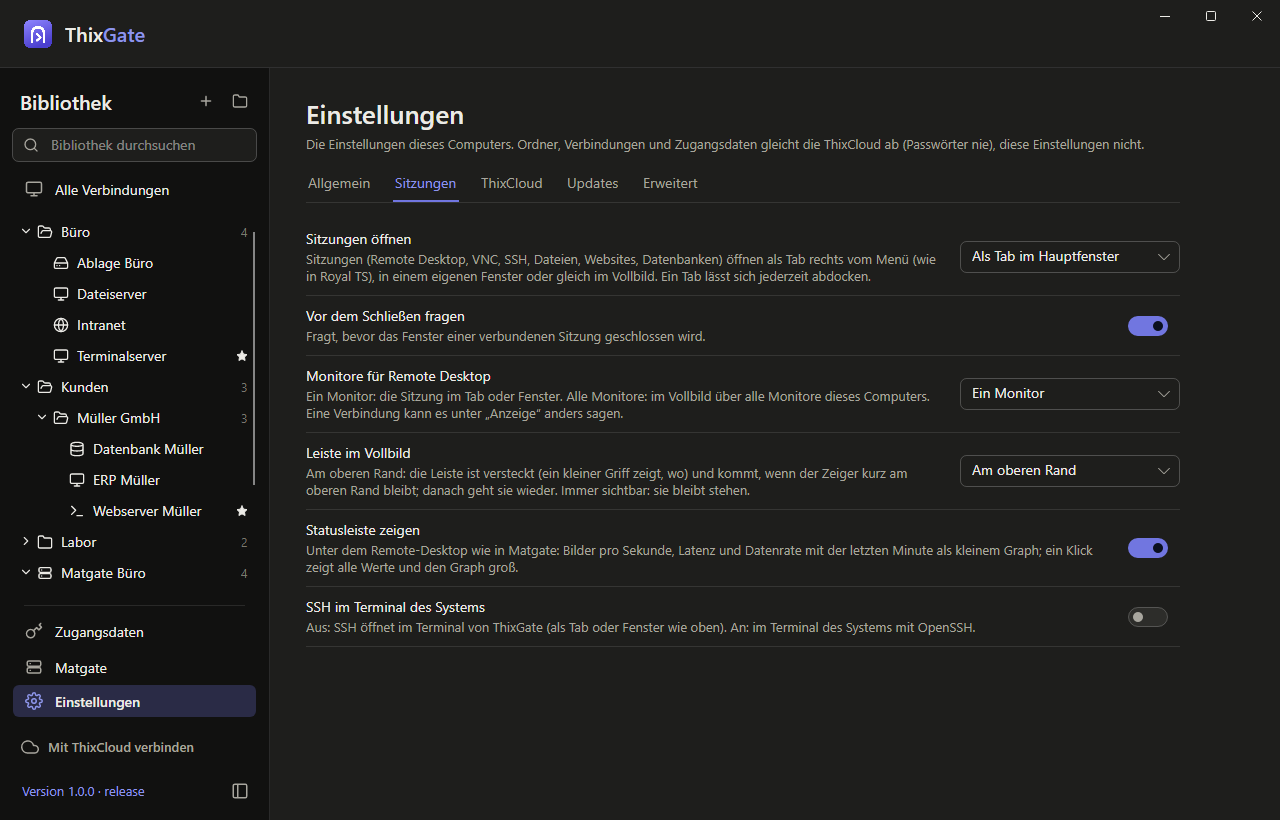
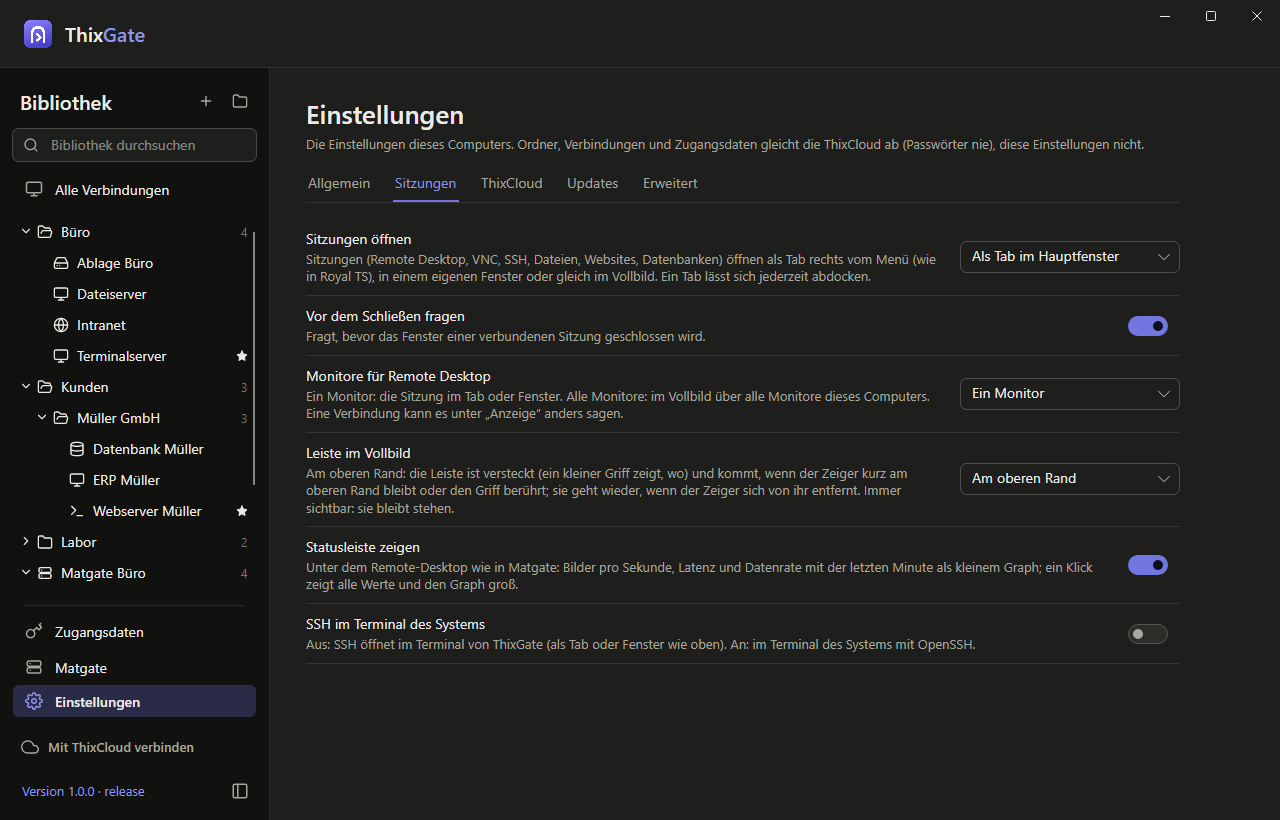
Vollbild: die Leiste kommt zuverlaessig - der Zeiger wird im ganzen Fenster verfolgt (auch ueber dem Bild und ueber Panels, die ihn selbst behandeln), der Bereich am oberen Rand ist groesser (6 statt 2 Pixel) und der Griff ein sichtbarer kleiner Reiter. Die Leiste bleibt, solange der Zeiger auf ihr 

Changed region(s): [[0.2188, 0.5793, 0.9375, 0.7927], [0.75, 0.5488, 0.8438, 0.6098], [0.875, 0.7317, 0.9062, 0.7927]]

diff --git a/src/ThixGate/Sessions/SessionView.FullScreen.cs b/src/ThixGate/Sessions/SessionView.FullScreen.cs
@@ -17,14 +17,25 @@ namespace ThixGate.Sessions;
 /// Full screen (and a desktop over several monitors): the bars above and below go, and a connection bar sits at the top edge instead -
 /// as in Microsoft's Windows App: flush with the edge and rounded below, a menu on the left (Verbindungsinformationen, Anzeige, Ton,
 /// Strg+Alt+Entf, Leiste immer zeigen), the state, name and way of the session, and on the right Minimieren, Vollbild beenden, Trennen.
-/// It stays hidden until the pointer rests at the top edge for a moment (or touches the small grip there) and goes again a moment after
-/// the pointer left it; entering full screen does not show it. As the settings say (<see cref="AppSettings.FullScreenBar"/>) it can
-/// instead always show ("Leiste immer zeigen" in its menu).
+/// It stays hidden until the pointer rests at the top edge for a moment (or touches the grip there) and goes again a moment after
+/// the pointer moved away from it; entering full screen does not show it. The pointer is followed in the whole window (also where the
+/// picture or a panel takes it), and where it was last counts: on macOS the system's menu bar comes down at the top edge and takes the
+/// pointer - the bar then waits below it instead of going. As the settings say (<see cref="AppSettings.FullScreenBar"/>) it can instead
+/// always show ("Leiste immer zeigen" in its menu).
 /// </summary>
 public sealed partial class SessionView
 {
     /// <summary>How long the pointer rests at the top edge before the bar comes (so a quick move to the top does not bring it).</summary>
-    private static readonly TimeSpan RevealDelay = TimeSpan.FromMilliseconds(350);
+    private static readonly TimeSpan RevealDelay = TimeSpan.FromMilliseconds(300);
+
+    /// <summary>How close to the top edge the pointer brings the bar.</summary>
+    private const double RevealZone = 6;
+
+    /// <summary>How far below the bar the pointer may go before it hides (room for the macOS menu bar over it).</summary>
+    private const double StayZone = 48;
+
+    /// <summary>Where the pointer was last seen in the window, from the top of the session (NaN: not yet).</summary>
+    private double _pointerTop = double.NaN;
 
     private readonly Border _fullBar = new();
     private readonly Border _handle = new();
@@ -72,6 +83,9 @@ public sealed partial class SessionView
 
     /// <summary>The pointer rests at the top edge (tests: as if it had rested long enough).</summary>
     internal void RevealBarNow() => ShowFullBar();
+
+    /// <summary>The pointer is at the top edge and the bar comes when it rests there a moment longer (tests).</summary>
+    internal bool IsRevealPending => _revealBar.IsEnabled;
 
     private static bool IsBarPinned => SettingsService.Get().FullScreenBar == "always";
 
@@ -121,21 +135,10 @@ public sealed partial class SessionView
         _fullBar.PointerPressed += (_, e) => e.Handled = true;
         _fullBar.PointerReleased += (_, e) => e.Handled = true;
         _fullBar.PointerMoved += (_, e) => e.Handled = true;
-        _fullBar.PointerEntered += (_, _) => _hideBar.Stop();
-        _fullBar.PointerExited += (_, _) => HideSoon();
         _hideBar.Tick += (_, _) =>
         {
             _hideBar.Stop();
-            if (!IsBarPinned && !_fullBar.IsPointerOver && !IsBarBusy)
-            {
-                _fullBar.IsVisible = false;
-                _handle.IsVisible = _isFullScreen;
-            }
-            else if (!IsBarPinned && !_fullBar.IsPointerOver)
-            {
-                // A menu or panel of the bar is open: look again once it may be closed.
-                _hideBar.Start();
-            }
+            HideBarIfAway();
         };
         _revealBar.Tick += (_, _) =>
         {
@@ -143,14 +146,25 @@ public sealed partial class SessionView
             ShowFullBar();
         };
 
-        // The grip: a small hint at the top edge where the bar waits; touching it brings the bar at once.
-        var grip = new Border { Width = 46, Height = 4, CornerRadius = new CornerRadius(2), VerticalAlignment = VerticalAlignment.Top, Margin = new Thickness(0, 3, 0, 0), Opacity = 0.7 }
-            .Use(Border.BackgroundProperty, "Mat.TextFaint");
-        // The area that takes the pointer is a theme colour at no opacity (no colour of its own), the grip on top of it.
+        // The grip: a small tab at the top edge where the bar waits (seen on a dark and a light picture alike); touching it brings the bar.
+        var line = new Border { Width = 28, Height = 3, CornerRadius = new CornerRadius(1.5), HorizontalAlignment = HorizontalAlignment.Center, VerticalAlignment = VerticalAlignment.Center }
+            .Use(Border.BackgroundProperty, "Mat.TextMuted");
+        var tab = new Border
+        {
+            Width = 64,
+            Height = 10,
+            CornerRadius = new CornerRadius(0, 0, 5, 5),
+            BorderThickness = new Thickness(1, 0, 1, 1),
+            HorizontalAlignment = HorizontalAlignment.Center,
+            VerticalAlignment = VerticalAlignment.Top,
+            Opacity = 0.9,
+            Child = line,
+        }.Use(Border.BackgroundProperty, "Mat.Surface").Use(Border.BorderBrushProperty, "Mat.Border");
+        // The area that takes the pointer is wider and taller than the tab: a theme colour at no opacity (no colour of its own).
         var area = new Border { Opacity = 0 }.Use(Border.BackgroundProperty, "Mat.Surface");
-        _handle.Child = new Panel { Children = { area, grip } };
-        _handle.Width = 140;
-        _handle.Height = 12;
+        _handle.Child = new Panel { Children = { area, tab } };
+        _handle.Width = 180;
+        _handle.Height = 16;
         _handle.HorizontalAlignment = HorizontalAlignment.Center;
         _handle.VerticalAlignment = VerticalAlignment.Top;
         _handle.IsVisible = false;
@@ -264,11 +278,32 @@ public sealed partial class SessionView
         _hideBar.Stop();
         _fullBar.IsVisible = true;
         _handle.IsVisible = false;
-        if (!_fullBar.IsPointerOver)
-        {
-            HideSoon();
-        }
+        HideSoon();
     }
+
+    /// <summary>The hide timer ran out: the bar goes unless pinned, busy (a menu or panel of it is open) or the pointer is still near it.</summary>
+    internal void HideBarIfAway()
+    {
+        if (IsBarPinned || !_isFullScreen || !_fullBar.IsVisible)
+        {
+            return;
+        }
+
+        if (IsBarBusy || IsPointerNearBar)
+        {
+            // Look again a moment later.
+            _hideBar.Start();
+            return;
+        }
+
+        _fullBar.IsVisible = false;
+        _handle.IsVisible = true;
+    }
+
+    /// <summary>The pointer was last seen on the bar or just below it (on macOS also: last seen there before the menu bar took it).</summary>
+    private bool IsPointerNearBar => !double.IsNaN(_pointerTop) && _pointerTop <= BarBottom + StayZone;
+
+    private double BarBottom => _fullBar.Bounds.Height > 0 ? _fullBar.Bounds.Bottom : _fullBar.Height;
 
     /// <summary>"Leiste immer zeigen" changed (menu or settings): pinned it shows at once, else it goes when the pointer is not on it.</summary>
     private void ApplyBarSetting()
@@ -292,22 +327,38 @@ public sealed partial class SessionView
 
     private void HideSoon()
     {
-        if (!IsBarPinned && _isFullScreen && _fullBar.IsVisible)
+        if (!IsBarPinned && _isFullScreen && _fullBar.IsVisible && !_hideBar.IsEnabled)
         {
-            _hideBar.Stop();
             _hideBar.Start();
         }
     }
 
-    /// <summary>The pointer resting at the very top of the screen brings the bar; moving away before it came does not.</summary>
-    private void PointerNearTop(PointerEventArgs e)
+    /// <summary>A pointer move anywhere in the window (tunnelled, also when something below handles it).</summary>
+    private void WindowPointerMoved(object? sender, PointerEventArgs e) => TrackPointer(e.GetPosition(this).Y);
+
+    /// <summary>
+    /// The pointer is at <paramref name="top"/> (from the top of the session): resting at the top edge brings the bar (moving away before
+    /// it came does not); moving away from the shown bar lets it go a moment later.
+    /// </summary>
+    internal void TrackPointer(double top)
     {
-        if (!_isFullScreen || _fullBar.IsVisible)
+        _pointerTop = top;
+        if (!_isFullScreen)
         {
             return;
         }
 
-        if (e.GetPosition(_surface).Y <= 2)
+        if (_fullBar.IsVisible)
+        {
+            if (!IsPointerNearBar)
+            {
+                HideSoon();
+            }
+
+            return;
+        }
+
+        if (top <= RevealZone)
         {
             if (!_revealBar.IsEnabled)
             {

diff --git a/src/ThixGate/Sessions/SessionView.cs b/src/ThixGate/Sessions/SessionView.cs
@@ -140,11 +140,7 @@ public sealed partial class SessionView : UserControl, IScreenHost, ISshHost
         };
         _surface.SizeChanged += (_, _) => RememberSize();
 
-        _surface.PointerMoved += (_, e) =>
-        {
-            PointerNearTop(e);
-            Pointer(e);
-        };
+        _surface.PointerMoved += (_, e) => Pointer(e);
         _surface.PointerPressed += (_, e) =>
         {
             if (!IsScreen)
@@ -190,6 +186,8 @@ public sealed partial class SessionView : UserControl, IScreenHost, ISshHost
             {
                 window.Activated -= WindowActivated;
             }
+
+            (e.Root as Avalonia.Interactivity.Interactive)?.RemoveHandler(PointerMovedEvent, WindowPointerMoved);
         };
         AttachedToVisualTree += (_, e) =>
         {
@@ -200,6 +198,8 @@ public sealed partial class SessionView : UserControl, IScreenHost, ISshHost
                 window.Activated += WindowActivated;
             }
 
+            // The full-screen bar follows the pointer anywhere in the window - also where the picture, the bar or a panel handles it.
+            (e.Root as Avalonia.Interactivity.Interactive)?.AddHandler(PointerMovedEvent, WindowPointerMoved, Avalonia.Interactivity.RoutingStrategies.Tunnel, handledEventsToo: true);
 
             // The first time it is shown the session starts; moving between a tab and a window only shows it elsewhere.
             RememberSize();

diff --git a/tests/ThixGate.UiTests/UiTests.Sessions.cs b/tests/ThixGate.UiTests/UiTests.Sessions.cs
@@ -78,6 +78,24 @@ public sealed partial class UiTests
         Assert.Equal(["Menü der Sitzung", "Minimieren", "Vollbild beenden", "Trennen"], names);
         Assert.Contains(view.FullBar.GetLogicalDescendants().OfType<TextBlock>(), text => text.Text == "Terminalserver");
 
+        // The pointer stays on it or just below (on macOS: the menu bar took it there): it stays; further down it goes.
+        view.TrackPointer(20);
+        view.HideBarIfAway();
+        Assert.True(view.IsFullBarShown);
+        view.TrackPointer(400);
+        view.HideBarIfAway();
+        Assert.False(view.IsFullBarShown);
+        Assert.True(view.IsHandleShown);
+
+        // A quick move to the top does not bring it; resting there does.
+        view.TrackPointer(0);
+        Assert.True(view.IsRevealPending);
+        view.TrackPointer(300);
+        Assert.False(view.IsRevealPending);
+        view.TrackPointer(3);
+        Assert.True(view.IsRevealPending);
+        Assert.False(view.IsFullBarShown);
+
         view.IsFullScreen = false;
         Assert.False(view.IsFullBarShown);
         Assert.False(view.IsHandleShown);

diff --git a/README.md b/README.md
@@ -18,7 +18,7 @@ verbunden wird über Matgate.
 | | |
 |---|---|
 | **Bibliothek** | Ordner (auch ineinander), Verbindungen mit Protokoll, Adresse, Port, Benutzer, Notiz, Schlagwörtern und Favoriten. Das **Menü ist die Bibliothek als Baum**: Ordner auf- und zuklappen (ein Klick zeigt ihre Verbindungen), durchsuchen, Doppelklick verbindet, rechte Maustaste für alles Weitere; darunter Zugangsdaten, Matgate und Einstellungen. Dazu die Liste mit Suche, Filter (Protokoll, Ordner, Favoriten), Sortierung und Seiten. |
-| **Remote Desktop & VNC** | Als **Tab rechts vom Menü** wie in Royal TS (abdocken in ein eigenes Fenster und wieder andocken, oder auf Wunsch immer im eigenen Fenster / Vollbild), mit Matgates Engine (`Mat.Remote`): Bild direkt gezeichnet, Maus, Rad, Tastatur (Scancodes für RDP, Keysyms für VNC), Auflösung folgt dem Fenster, Strg+Alt+Entf, Anmeldung mit NLA. Bildqualität wie in Matgate. **Zwischenablage in beide Richtungen** (Text, Bilder und Dateien – kopierte Dateien landen in Explorer / Finder). **Laufwerke:** Ordner oder alle Laufwerke dieses Computers erscheinen im Explorer des Remote-PCs. **Mehrere Monitore:** einer, alle oder ausgewählte – je Verbindung oder als Standard. **Statusleiste wie in Matgate:** Bilder/s, Latenz (grün / gelb / rot) und Datenrate mit der letzten Minute als kleinem Graph, ein Klick zeigt alle Werte und den Graph groß; auf Wunsch die Leistungsanzeige im Bild (klein, mittel, groß mit Graph, in jeder Ecke). **Weg** sichtbar: direkt, über Matgate (Durchleitung) oder Sitzung auf Matgate. **Anzeige während der Sitzung:** Größe (an Fenster anpassen, wie am Server, fest), Bildqualität (Flüssig, Mittel, Wenig Daten, Schnellste Reaktion – über Matgate sofort, direkt mit „Jetzt neu verbinden“ für die Farben), **Ton** des Remote-Desktops über die Lautsprecher dieses Computers (ein- und ausschaltbar). **Vollbild** mit einer Verbindungsleiste wie in Microsofts Windows App: bündig am oberen Rand, links ein Menü (Verbindungsinformationen, Anzeige, Ton, Strg+Alt+Entf, Leiste immer zeigen), Name und Weg, rechts Minimieren, Vollbild beenden und Trennen. Sie ist versteckt und kommt, wenn der Zeiger kurz am oberen Rand bleibt (oder auf Wunsch immer sichtbar). Import aus .rdp-Dateien mit Monitoren und Laufwerken. |
+| **Remote Desktop & VNC** | Als **Tab rechts vom Menü** wie in Royal TS (abdocken in ein eigenes Fenster und wieder andocken, oder auf Wunsch immer im eigenen Fenster / Vollbild), mit Matgates Engine (`Mat.Remote`): Bild direkt gezeichnet, Maus, Rad, Tastatur (Scancodes für RDP, Keysyms für VNC), Auflösung folgt dem Fenster, Strg+Alt+Entf, Anmeldung mit NLA. Bildqualität wie in Matgate. **Zwischenablage in beide Richtungen** (Text, Bilder und Dateien – kopierte Dateien landen in Explorer / Finder). **Laufwerke:** Ordner oder alle Laufwerke dieses Computers erscheinen im Explorer des Remote-PCs. **Mehrere Monitore:** einer, alle oder ausgewählte – je Verbindung oder als Standard. **Statusleiste wie in Matgate:** Bilder/s, Latenz (grün / gelb / rot) und Datenrate mit der letzten Minute als kleinem Graph, ein Klick zeigt alle Werte und den Graph groß; auf Wunsch die Leistungsanzeige im Bild (klein, mittel, groß mit Graph, in jeder Ecke). **Weg** sichtbar: direkt, über Matgate (Durchleitung) oder Sitzung auf Matgate. **Anzeige während der Sitzung:** Größe (an Fenster anpassen, wie am Server, fest), Bildqualität (Flüssig, Mittel, Wenig Daten, Schnellste Reaktion – über Matgate sofort, direkt mit „Jetzt neu verbinden“ für die Farben), **Ton** des Remote-Desktops über die Lautsprecher dieses Computers (ein- und ausschaltbar). **Vollbild** mit einer Verbindungsleiste wie in Microsofts Windows App: bündig am oberen Rand, links ein Menü (Verbindungsinformationen, Anzeige, Ton, Strg+Alt+Entf, Leiste immer zeigen), Name und Weg, rechts Minimieren, Vollbild beenden und Trennen. Sie ist versteckt (ein kleiner Griff oben in der Mitte zeigt, wo) und kommt, wenn der Zeiger kurz am oberen Rand bleibt oder den Griff berührt; sie bleibt, solange der Zeiger auf ihr oder knapp darunter ist (unter macOS auch, während die Menüleiste des Systems über ihr liegt) – oder auf Wunsch immer sichtbar. Import aus .rdp-Dateien mit Monitoren und Laufwerken. |
 | **SSH** | Im **eigenen Terminal als Tab** (xterm-256color: Farben, Vollbildprogramme wie vim, htop und mc, Maus, Rückblick mit dem Mausrad, Markieren und Kopieren, Einfügen mit Strg+Umschalt+V / Cmd+V), angemeldet mit Passwort, Schlüsseldatei (mit Passphrase) oder was der Server fragt. Den Schlüssel eines neuen Servers bestätigst du einmal, ein geänderter Schlüssel warnt. Auf Wunsch weiter im Terminal des Systems (Windows Terminal, Terminal.app, ein eigenes) – das Passwort steht dort nie auf einer Befehlszeile. |
 | **Dateien** | **SFTP, FTP, SMB und WebDAV** als Dateimanager im Tab (Matgates Code): Ordner wechseln, Neu (Ordner, Datei), Hochladen (Dateien, ganze Ordner, ein Archiv entpackt; oder aus dem Explorer / Finder hineinziehen), Herunterladen (auch Ordner und als ZIP), Öffnen mit dem Programm des Computers, Umbenennen, Löschen, ZIP erstellen, Entpacken (zip, rar, 7z, tar, gz …), Kopieren / Ausschneiden / Einfügen auch zwischen zwei Datei-Tabs. Ein Startordner hält die Verbindung in ihrem Bereich. |
 | **Datenbanken** | **SQL Server, MySQL / MariaDB und PostgreSQL** wie in Matgate: Objekt-Explorer (Tabellen, Sichten, Prozeduren, Funktionen; Spalten, Schlüssel, Indizes, Fremdschlüssel), Abfragen mit mehreren Ergebnissen (Strg+Enter / F5, nur die Auswahl), Abbrechen, Plan, Verlauf, Zeilen seitenweise und sortiert, **Zeilen bearbeiten** (mit Vorschau, in einer Transaktion), **Tabellen entwerfen**, CREATE-Skripte, Export als CSV oder JSON. |

diff --git a/CLAUDE.md b/CLAUDE.md
@@ -119,7 +119,7 @@ src/ThixGate            (Avalonia app)
                         .Status the status bar below as in Matgate's web app (chips, spark, details with StatusGraph, the numbers in
                         the picture), .Display "Anzeige" (size, quality - live über Matgate, else at the next connect -, sound) and
                         the way it goes, .FullScreen the connection bar as in Microsoft's Windows App (flush at the top edge,
-                        menu + name + Minimieren/Vollbild beenden/Trennen; hidden until the pointer rests at the edge, or always); AudioPlayer plays the sound:
+                        menu + name + Minimieren/Vollbild beenden/Trennen; hidden until the pointer rests at the edge or touches the grip - the pointer is followed in the whole window, the bar stays while it is on or just below it - or always); AudioPlayer plays the sound:
                         waveOut on Windows, AudioQueue on macOS), SessionHub (where a session is: a tab right of the menu (default, like Royal TS) or a
                         SessionWindow; Abdocken/Andocken moves it without ending it; full screen = a window; over several monitors = a
                         frameless window spanning them, SessionWindow.Span), KeyMap (PhysicalKey → scancode for RDP, keysym for VNC), SessionLauncher, NullScreenHost
